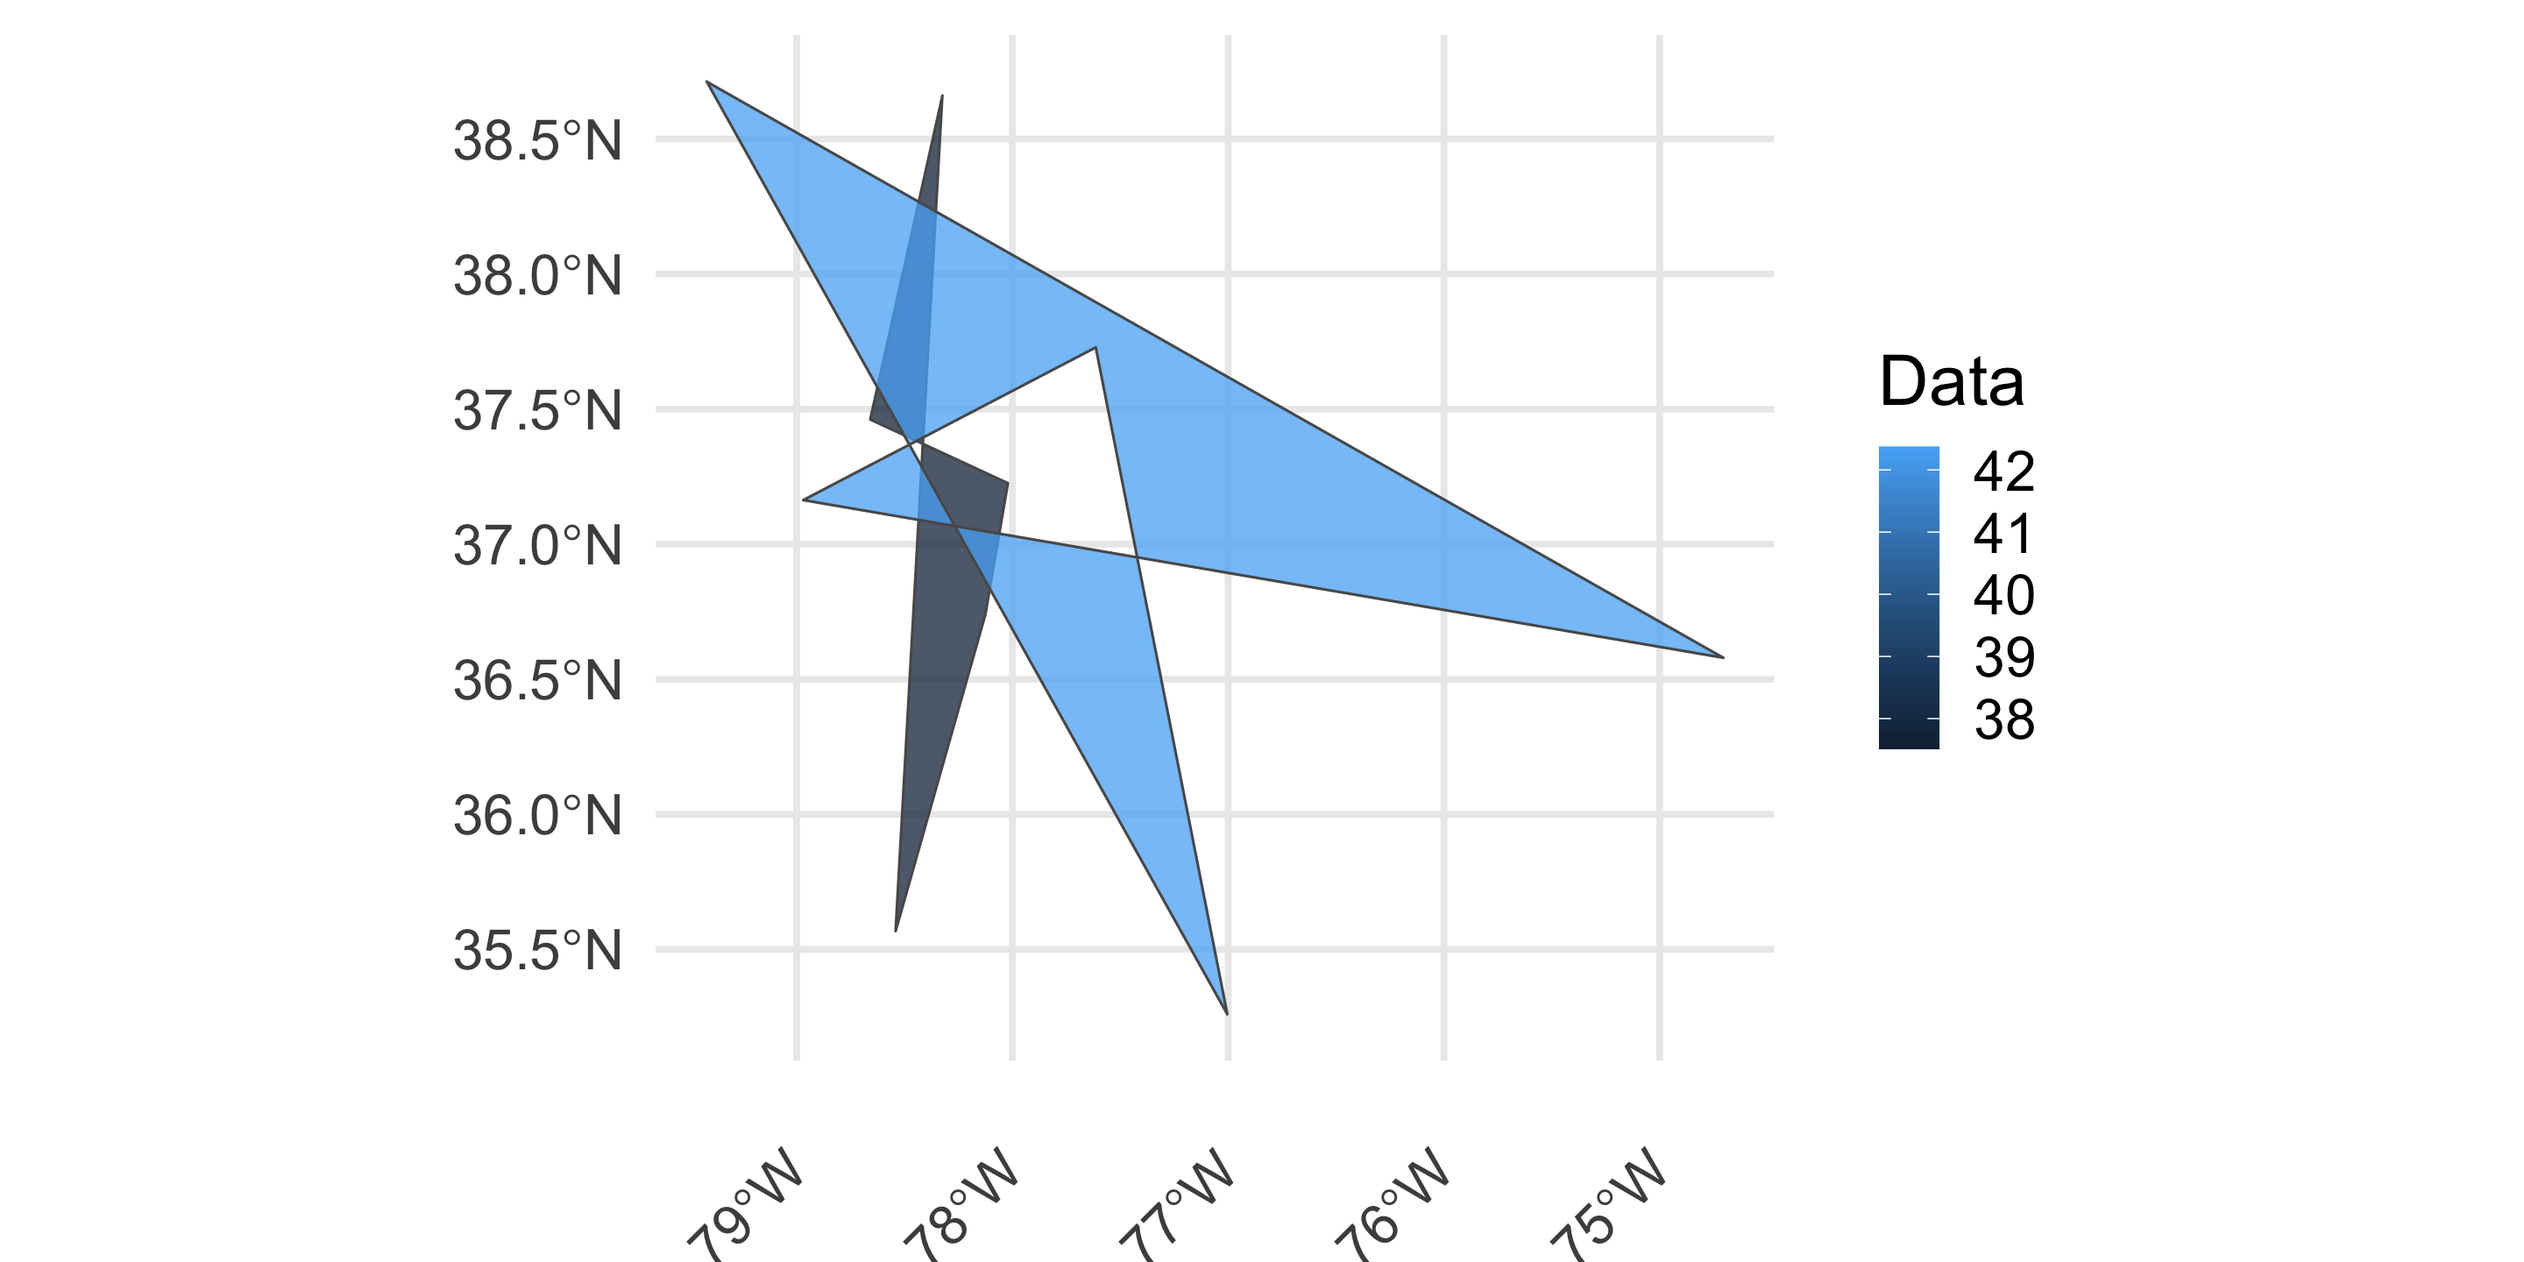
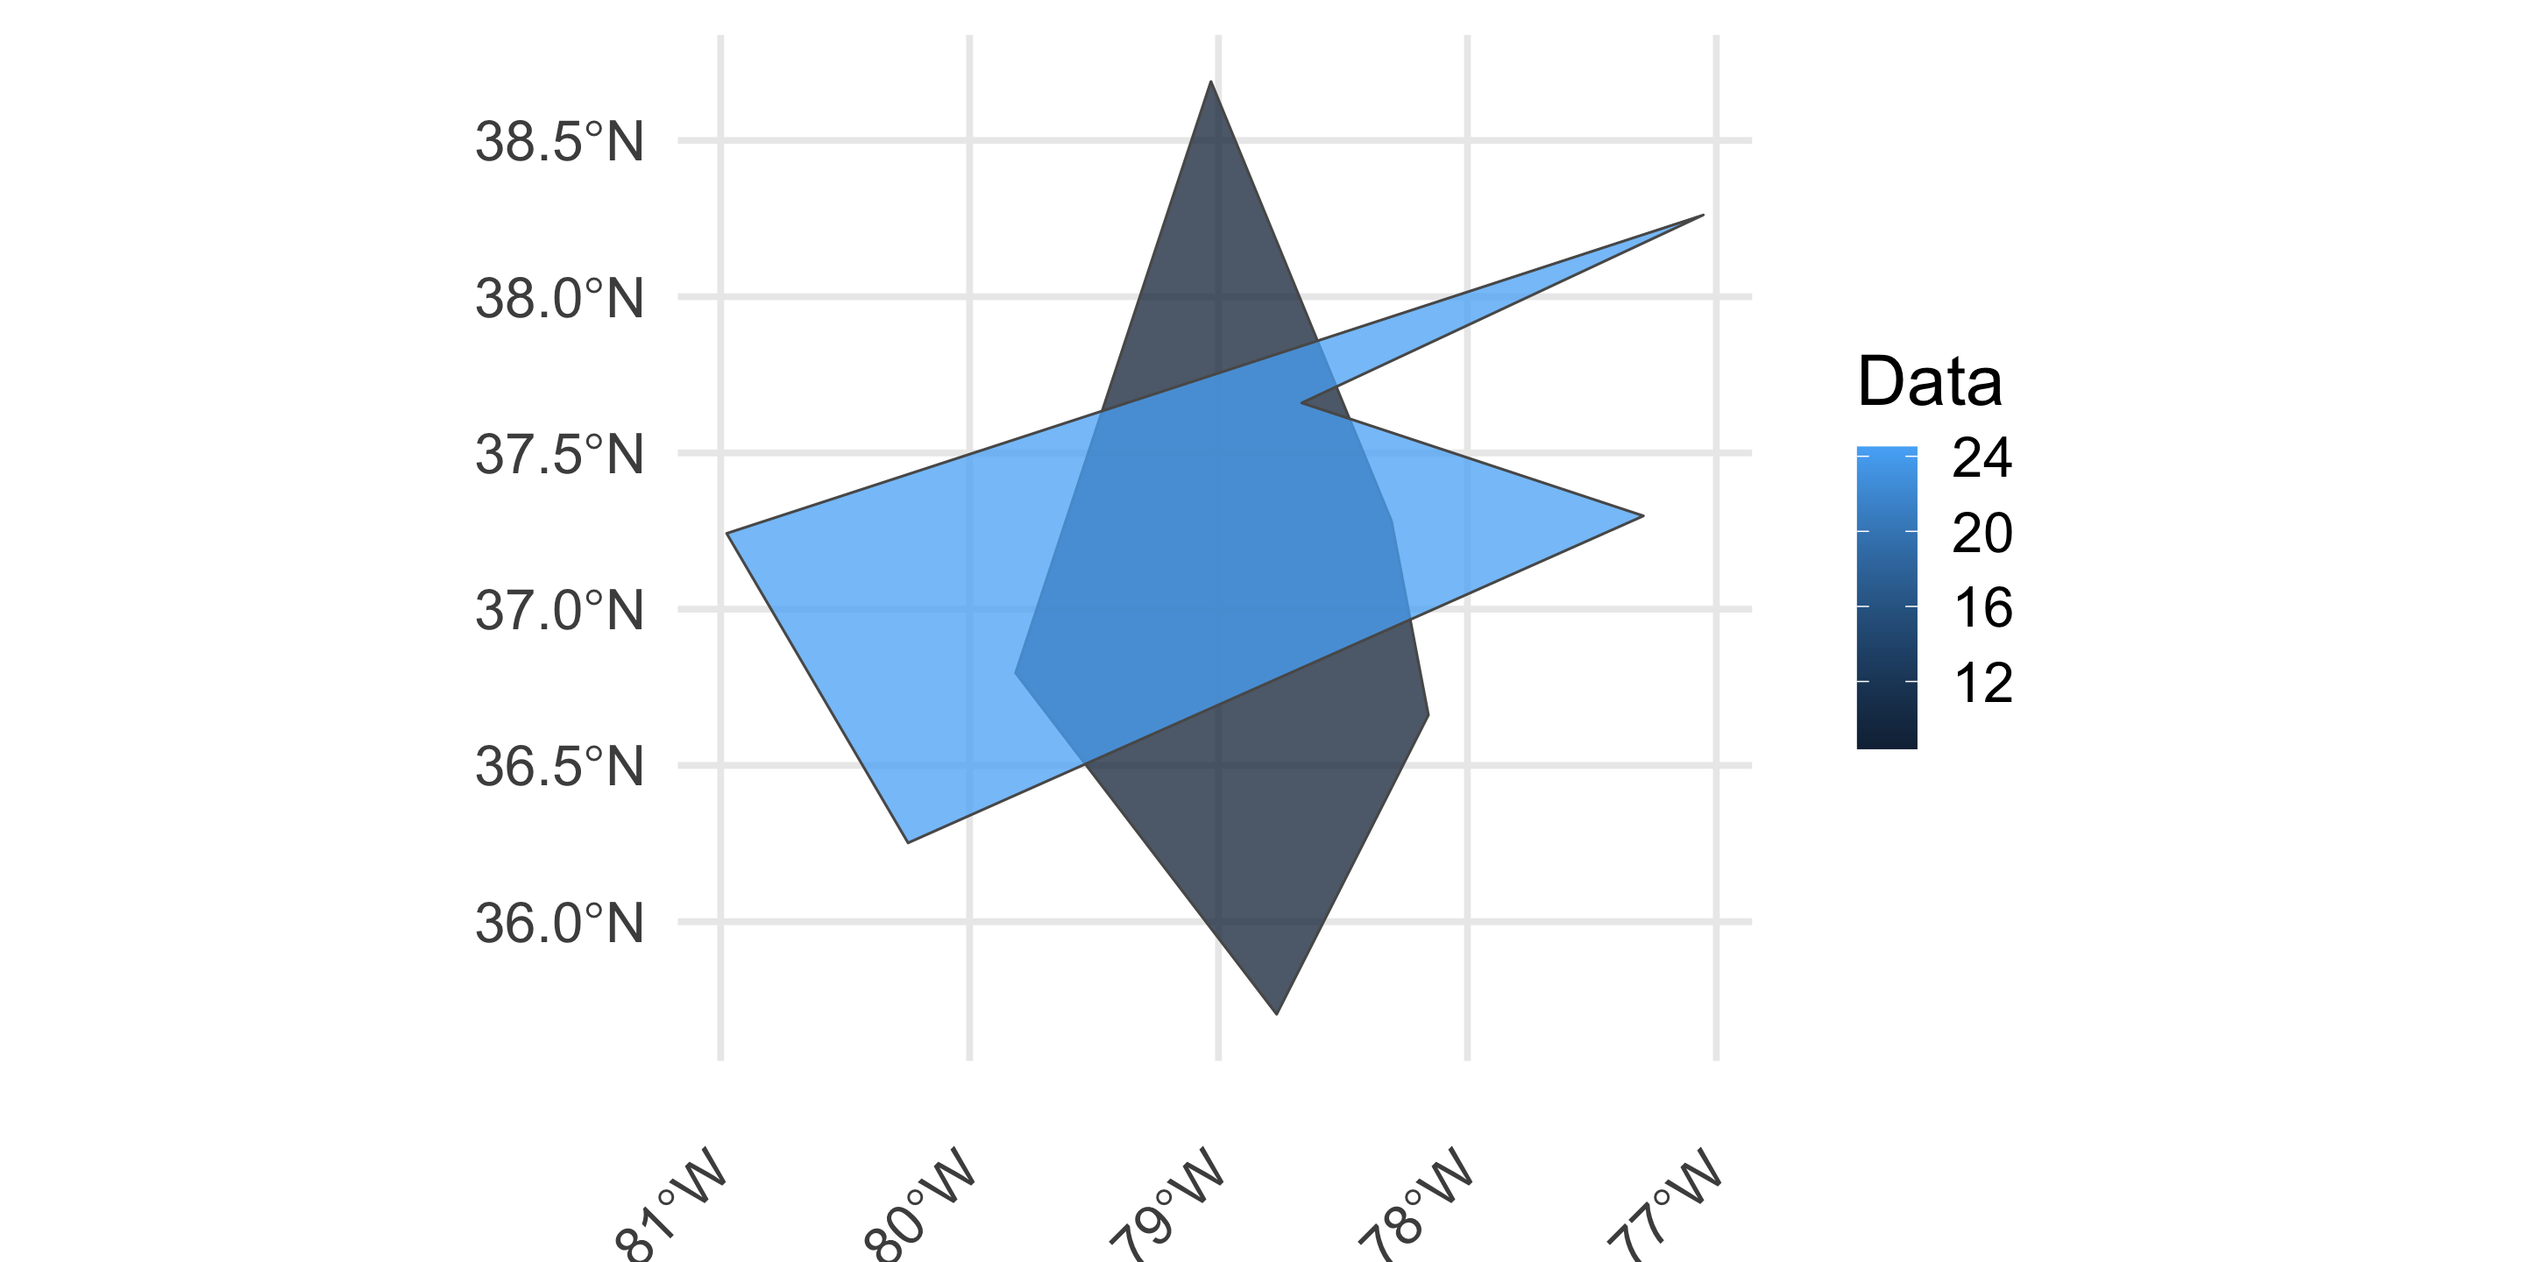
built for latest content

diff --git a/docs/slides.html b/docs/slides.html
@@ -233,17 +233,17 @@ Rodney Dyer, PhD
 <span id="cb1-4"><a href=""></a>                  <span class="at">Latitude =</span> <span class="fu">rnorm</span>(<span class="dv">10</span>, <span class="dv">37</span>, <span class="dv">1</span>) )</span>
 <span id="cb1-5"><a href=""></a>df</span></code></pre></div><button title="Copy to Clipboard" class="code-copy-button"><i class="bi"></i></button></div>
 <div class="cell-output cell-output-stdout">
-<pre><code>       id      Data Longitude Latitude
-1  Rodney 65.864192 -78.02083 37.22583
-2  Rodney 35.372591 -78.12584 36.73815
-3  Rodney 37.410083 -78.65888 37.46175
-4  Rodney  6.427304 -78.54139 35.56769
-5  Rodney 42.496058 -78.32399 38.66054
-6   Sarah 15.911670 -77.00403 35.25983
-7   Sarah -5.314767 -77.61399 37.72853
-8   Sarah 15.662531 -78.96931 37.16336
-9   Sarah 88.073052 -74.70521 36.57952
-10  Sarah 97.522167 -79.41733 38.71270</code></pre>
+<pre><code>       id       Data Longitude Latitude
+1  Rodney  -6.181140 -79.03020 38.68847
+2  Rodney  27.919901 -78.15670 36.66105
+3  Rodney  14.877994 -79.81500 36.79581
+4  Rodney  -1.884799 -78.76639 35.70373
+5  Rodney   7.330813 -78.30510 37.28217
+6   Sarah -25.278146 -80.24713 36.25216
+7   Sarah 107.007686 -80.97606 37.24246
+8   Sarah -60.826388 -77.05243 38.26161
+9   Sarah  69.092335 -77.29310 37.29866
+10  Sarah  32.502180 -78.66542 37.66026</code></pre>
 </div>
 </div>
 </section>
@@ -258,19 +258,19 @@ Rodney Dyer, PhD
 <pre><code>Simple feature collection with 10 features and 2 fields
 Geometry type: POINT
 Dimension:     XY
-Bounding box:  xmin: -79.41733 ymin: 35.25983 xmax: -74.70521 ymax: 38.7127
+Bounding box:  xmin: -80.97606 ymin: 35.70373 xmax: -77.05243 ymax: 38.68847
 Geodetic CRS:  WGS 84
-       id      Data                   geometry
-1  Rodney 65.864192 POINT (-78.02083 37.22583)
-2  Rodney 35.372591 POINT (-78.12584 36.73815)
-3  Rodney 37.410083 POINT (-78.65888 37.46175)
-4  Rodney  6.427304 POINT (-78.54139 35.56769)
-5  Rodney 42.496058 POINT (-78.32399 38.66054)
-6   Sarah 15.911670 POINT (-77.00403 35.25983)
-7   Sarah -5.314767 POINT (-77.61399 37.72853)
-8   Sarah 15.662531 POINT (-78.96931 37.16336)
-9   Sarah 88.073052 POINT (-74.70521 36.57952)
-10  Sarah 97.522167  POINT (-79.41733 38.7127)</code></pre>
+       id       Data                   geometry
+1  Rodney  -6.181140  POINT (-79.0302 38.68847)
+2  Rodney  27.919901  POINT (-78.1567 36.66105)
+3  Rodney  14.877994   POINT (-79.815 36.79581)
+4  Rodney  -1.884799 POINT (-78.76639 35.70373)
+5  Rodney   7.330813  POINT (-78.3051 37.28217)
+6   Sarah -25.278146 POINT (-80.24713 36.25216)
+7   Sarah 107.007686 POINT (-80.97606 37.24246)
+8   Sarah -60.826388 POINT (-77.05243 38.26161)
+9   Sarah  69.092335  POINT (-77.2931 37.29866)
+10  Sarah  32.502180 POINT (-78.66542 37.66026)</code></pre>
 </div>
 </div>
 </section>
@@ -321,13 +321,13 @@ Geodetic CRS:  WGS 84
 <pre><code>Simple feature collection with 2 features and 2 fields
 Geometry type: LINESTRING
 Dimension:     XY
-Bounding box:  xmin: -79.41733 ymin: 35.25983 xmax: -74.70521 ymax: 38.7127
+Bounding box:  xmin: -80.97606 ymin: 35.70373 xmax: -77.05243 ymax: 38.68847
 Geodetic CRS:  WGS 84
 # A tibble: 2 × 3
   id      Data                                                          geometry
   &lt;chr&gt;  &lt;dbl&gt;                                                  &lt;LINESTRING [°]&gt;
-1 Rodney  37.5 (-78.54139 35.56769, -78.12584 36.73815, -78.02083 37.22583, -78…
-2 Sarah   42.4 (-79.41733 38.7127, -77.00403 35.25983, -77.61399 37.72853, -78.…</code></pre>
+1 Rodney  8.41 (-79.815 36.79581, -78.76639 35.70373, -78.1567 36.66105, -78.30…
+2 Sarah  24.5  (-80.97606 37.24246, -80.24713 36.25216, -77.2931 37.29866, -78.…</code></pre>
 </div>
 </div>
 </section>
@@ -362,7 +362,7 @@ Geodetic CRS:  WGS 84
 <div class="code-copy-outer-scaffold"><div class="sourceCode cell-code" id="cb10"><pre class="sourceCode numberSource r number-lines code-with-copy"><code class="sourceCode r"><span id="cb10-1"><a href=""></a><span class="fu">st_length</span>( lines )</span></code></pre></div><button title="Copy to Clipboard" class="code-copy-button"><i class="bi"></i></button></div>
 <div class="cell-output cell-output-stdout">
 <pre><code>Units: [m]
-[1]  389107.9 1239484.3</code></pre>
+[1] 512373.9 699524.9</code></pre>
 </div>
 </div>
 <div class="fragment">
@@ -371,7 +371,7 @@ Geodetic CRS:  WGS 84
 <div class="code-copy-outer-scaffold"><div class="sourceCode cell-code" id="cb12"><pre class="sourceCode numberSource r number-lines code-with-copy"><code class="sourceCode r"><span id="cb12-1"><a href=""></a><span class="fu">st_bbox</span>( lines )</span></code></pre></div><button title="Copy to Clipboard" class="code-copy-button"><i class="bi"></i></button></div>
 <div class="cell-output cell-output-stdout">
 <pre><code>     xmin      ymin      xmax      ymax 
--79.41733  35.25983 -74.70521  38.71270 </code></pre>
+-80.97606  35.70373 -77.05243  38.68847 </code></pre>
 </div>
 </div>
 <div class="fragment">
@@ -384,7 +384,7 @@ Geodetic CRS:  WGS 84
 <span id="cb14-5"><a href=""></a>  <span class="fu">st_area</span>() <span class="sc">%&gt;%</span></span>
 <span id="cb14-6"><a href=""></a>  <span class="fu">set_units</span>( km<span class="sc">^</span><span class="dv">2</span> )</span></code></pre></div><button title="Copy to Clipboard" class="code-copy-button"><i class="bi"></i></button></div>
 <div class="cell-output cell-output-stdout">
-<pre><code>88156.17 [km^2]</code></pre>
+<pre><code>69305.86 [km^2]</code></pre>
 </div>
 </div>
 </div>
@@ -396,7 +396,7 @@ Geodetic CRS:  WGS 84
 <div class="cell" data-layout-align="center">
 <div class="code-copy-outer-scaffold"><div class="sourceCode cell-code" id="cb16"><pre class="sourceCode numberSource r number-lines code-with-copy"><code class="sourceCode r"><span id="cb16-1"><a href=""></a>lines<span class="sc">$</span>geometry[<span class="dv">1</span>] <span class="sc">%&gt;%</span> <span class="fu">st_as_text</span>()</span></code></pre></div><button title="Copy to Clipboard" class="code-copy-button"><i class="bi"></i></button></div>
 <div class="cell-output cell-output-stdout">
-<pre><code>[1] "LINESTRING (-78.54139 35.56769, -78.12584 36.73815, -78.02083 37.22583, -78.65888 37.46175, -78.32399 38.66054)"</code></pre>
+<pre><code>[1] "LINESTRING (-79.815 36.79581, -78.76639 35.70373, -78.1567 36.66105, -78.3051 37.28217, -79.0302 38.68847)"</code></pre>
 </div>
 </div>
 </section></section>
@@ -412,19 +412,19 @@ Geodetic CRS:  WGS 84
 <div class="code-copy-outer-scaffold"><div class="sourceCode cell-code" id="cb18"><pre class="sourceCode numberSource r number-lines code-with-copy"><code class="sourceCode r"><span id="cb18-1"><a href=""></a>df.p <span class="ot">&lt;-</span> df[ <span class="fu">c</span>(<span class="dv">1</span><span class="sc">:</span><span class="dv">5</span>,<span class="dv">1</span>, <span class="dv">6</span><span class="sc">:</span><span class="dv">10</span>,<span class="dv">6</span>),]</span>
 <span id="cb18-2"><a href=""></a>df.p</span></code></pre></div><button title="Copy to Clipboard" class="code-copy-button"><i class="bi"></i></button></div>
 <div class="cell-output cell-output-stdout">
-<pre><code>        id      Data Longitude Latitude
-1   Rodney 65.864192 -78.02083 37.22583
-2   Rodney 35.372591 -78.12584 36.73815
-3   Rodney 37.410083 -78.65888 37.46175
-4   Rodney  6.427304 -78.54139 35.56769
-5   Rodney 42.496058 -78.32399 38.66054
-1.1 Rodney 65.864192 -78.02083 37.22583
-6    Sarah 15.911670 -77.00403 35.25983
-7    Sarah -5.314767 -77.61399 37.72853
-8    Sarah 15.662531 -78.96931 37.16336
-9    Sarah 88.073052 -74.70521 36.57952
-10   Sarah 97.522167 -79.41733 38.71270
-6.1  Sarah 15.911670 -77.00403 35.25983</code></pre>
+<pre><code>        id       Data Longitude Latitude
+1   Rodney  -6.181140 -79.03020 38.68847
+2   Rodney  27.919901 -78.15670 36.66105
+3   Rodney  14.877994 -79.81500 36.79581
+4   Rodney  -1.884799 -78.76639 35.70373
+5   Rodney   7.330813 -78.30510 37.28217
+1.1 Rodney  -6.181140 -79.03020 38.68847
+6    Sarah -25.278146 -80.24713 36.25216
+7    Sarah 107.007686 -80.97606 37.24246
+8    Sarah -60.826388 -77.05243 38.26161
+9    Sarah  69.092335 -77.29310 37.29866
+10   Sarah  32.502180 -78.66542 37.66026
+6.1  Sarah -25.278146 -80.24713 36.25216</code></pre>
 </div>
 </div>
 </section>
@@ -446,13 +446,13 @@ Geodetic CRS:  WGS 84
 <pre><code>Simple feature collection with 2 features and 2 fields
 Geometry type: POLYGON
 Dimension:     XY
-Bounding box:  xmin: -79.41733 ymin: 35.25983 xmax: -74.70521 ymax: 38.7127
+Bounding box:  xmin: -80.97606 ymin: 35.70373 xmax: -77.05243 ymax: 38.68847
 Geodetic CRS:  WGS 84
 # A tibble: 2 × 3
   id      Data                                                          geometry
   &lt;chr&gt;  &lt;dbl&gt;                                                     &lt;POLYGON [°]&gt;
-1 Rodney  37.5 ((-78.54139 35.56769, -78.12584 36.73815, -78.02083 37.22583, -7…
-2 Sarah   42.4 ((-79.41733 38.7127, -77.00403 35.25983, -77.61399 37.72853, -78…</code></pre>
+1 Rodney  8.41 ((-79.815 36.79581, -78.76639 35.70373, -78.1567 36.66105, -78.3…
+2 Sarah  24.5  ((-80.97606 37.24246, -80.24713 36.25216, -77.2931 37.29866, -78…</code></pre>
 </div>
 </div>
 </section>
@@ -542,7 +542,7 @@ Geodetic CRS:  WGS 84
 <p>The ESRI <em>Shapefile</em> is a non-standardized format for packaging vector based data (<code>POINT</code>, <code>LINESTRING</code>, <code>POLYGON</code>, etc.).</p>
 <p>However, it is not actually a file but it is a collection of files, which may (or may not) expand directly in the folder or within a subfolder.</p>
 
-<img data-src="https://live.staticflickr.com/65535/50540213032_8bd1f297a6_c_d.jpg" class="r-stretch"></section>
+<img data-src="media/flickr_50540213032.jpg" class="r-stretch"></section>
 <section id="archived-zip-files." class="slide level2">
 <h2>Archived ZIP Files.</h2>
 <p>I’ve put some shapefiles in the <a href="https://dyerlabteaching.github.io/CourseData/">course data repository</a>. These are from the Richmond City GIS Department and represent the centerlines of roads in the city as well as the zoning districts.</p>
@@ -578,11 +578,11 @@ Geodetic CRS:  WGS 84
 <section id="file-components" class="slide level2">
 <h2>File Components</h2>
 
-<img data-src="https://www.flickr.com/photo_download.gne?id=54843115636&amp;secret=34392673a2&amp;size=c&amp;source=photoPageEngagement" class="r-stretch"></section>
+<img data-src="media/flickr_54843115636.jpg" class="r-stretch"></section>
 <section id="the-projection-file" class="slide level2">
 <h2>The Projection File</h2>
 
-<img data-src="https://live.staticflickr.com/65535/50540256782_1e697d935c_c_d.jpg" class="r-stretch"></section>
+<img data-src="media/flickr_50540256782.jpg" class="r-stretch"></section>
 <section id="loading-a-shapefile" class="slide level2">
 <h2>Loading A Shapefile</h2>
 <p>You can load it in using <code>sf::st_read()</code> and passing it the <code>.shp</code> file path to it.</p>
@@ -590,7 +590,7 @@ Geodetic CRS:  WGS 84
 <div class="code-copy-outer-scaffold"><div class="sourceCode cell-code" id="cb33"><pre class="sourceCode numberSource r number-lines code-with-copy"><code class="sourceCode r"><span id="cb33-1"><a href=""></a><span class="fu">st_read</span>( <span class="fu">file.path</span>( shp_dir, <span class="st">"Zoning_Districts.shp"</span> ) ) <span class="ot">-&gt;</span> districts </span></code></pre></div><button title="Copy to Clipboard" class="code-copy-button"><i class="bi"></i></button></div>
 <div class="cell-output cell-output-stdout">
 <pre><code>Reading layer `Zoning_Districts' from data source 
-  `/private/var/folders/57/_81c61111l10c9c_pt_bb7y80000gn/T/RtmpqVIecY/Zoning_Districts.shp' 
+  `/private/var/folders/57/_81c61111l10c9c_pt_bb7y80000gn/T/RtmpY9QS4z/Zoning_Districts.shp' 
   using driver `ESRI Shapefile'
 Simple feature collection with 634 features and 14 fields
 Geometry type: MULTIPOLYGON
@@ -708,7 +708,7 @@ Projected CRS: NAD83 / Virginia South (ftUS)
 <div class="code-copy-outer-scaffold"><div class="sourceCode cell-code" id="cb45"><pre class="sourceCode numberSource r number-lines code-with-copy"><code class="sourceCode r"><span id="cb45-1"><a href=""></a>road.shapefile <span class="ot">&lt;-</span> <span class="fu">st_read</span>( <span class="fu">file.path</span>( shp_dir, <span class="st">"Centerlines-shp/tran_Carriageway.shp"</span> ) )</span></code></pre></div><button title="Copy to Clipboard" class="code-copy-button"><i class="bi"></i></button></div>
 <div class="cell-output cell-output-stdout">
 <pre><code>Reading layer `tran_Carriageway' from data source 
-  `/private/var/folders/57/_81c61111l10c9c_pt_bb7y80000gn/T/RtmpqVIecY/Centerlines-shp/tran_Carriageway.shp' 
+  `/private/var/folders/57/_81c61111l10c9c_pt_bb7y80000gn/T/RtmpY9QS4z/Centerlines-shp/tran_Carriageway.shp' 
   using driver `ESRI Shapefile'
 Simple feature collection with 29081 features and 25 fields
 Geometry type: LINESTRING

diff --git a/docs/narrative.html b/docs/narrative.html
@@ -165,7 +165,7 @@ pre > code.sourceCode > span > a:first-child::before { text-decoration: underlin
 <div class="code-copy-outer-scaffold"><div class="sourceCode cell-code" id="cb9"><pre class="sourceCode r code-with-copy"><code class="sourceCode r"><span id="cb9-1"><a href="#cb9-1" aria-hidden="true" tabindex="-1"></a>roads <span class="ot">&lt;-</span> <span class="fu">st_read</span>( <span class="fu">file.path</span>( shp_dir, <span class="st">"Centerlines-shp/tran_Carriageway.shp"</span> ) )</span></code></pre></div><button title="Copy to Clipboard" class="code-copy-button"><i class="bi"></i></button></div>
 <div class="cell-output cell-output-stdout">
 <pre><code>Reading layer `tran_Carriageway' from data source 
-  `/private/var/folders/57/_81c61111l10c9c_pt_bb7y80000gn/T/RtmpoAazWo/Centerlines-shp/tran_Carriageway.shp' 
+  `/private/var/folders/57/_81c61111l10c9c_pt_bb7y80000gn/T/RtmpmBDhyQ/Centerlines-shp/tran_Carriageway.shp' 
   using driver `ESRI Shapefile'
 Simple feature collection with 29081 features and 25 fields
 Geometry type: LINESTRING
@@ -458,7 +458,7 @@ Attaching package: 'maps'</code></pre>
 <div class="code-copy-outer-scaffold"><div class="sourceCode cell-code" id="cb32"><pre class="sourceCode r code-with-copy"><code class="sourceCode r"><span id="cb32-1"><a href="#cb32-1" aria-hidden="true" tabindex="-1"></a>districts <span class="ot">&lt;-</span> <span class="fu">st_read</span>( <span class="fu">file.path</span>( shp_dir, <span class="st">"Zoning_Districts.shp"</span> ) )</span></code></pre></div><button title="Copy to Clipboard" class="code-copy-button"><i class="bi"></i></button></div>
 <div class="cell-output cell-output-stdout">
 <pre><code>Reading layer `Zoning_Districts' from data source 
-  `/private/var/folders/57/_81c61111l10c9c_pt_bb7y80000gn/T/RtmpoAazWo/Zoning_Districts.shp' 
+  `/private/var/folders/57/_81c61111l10c9c_pt_bb7y80000gn/T/RtmpmBDhyQ/Zoning_Districts.shp' 
   using driver `ESRI Shapefile'
 Simple feature collection with 634 features and 14 fields
 Geometry type: MULTIPOLYGON
